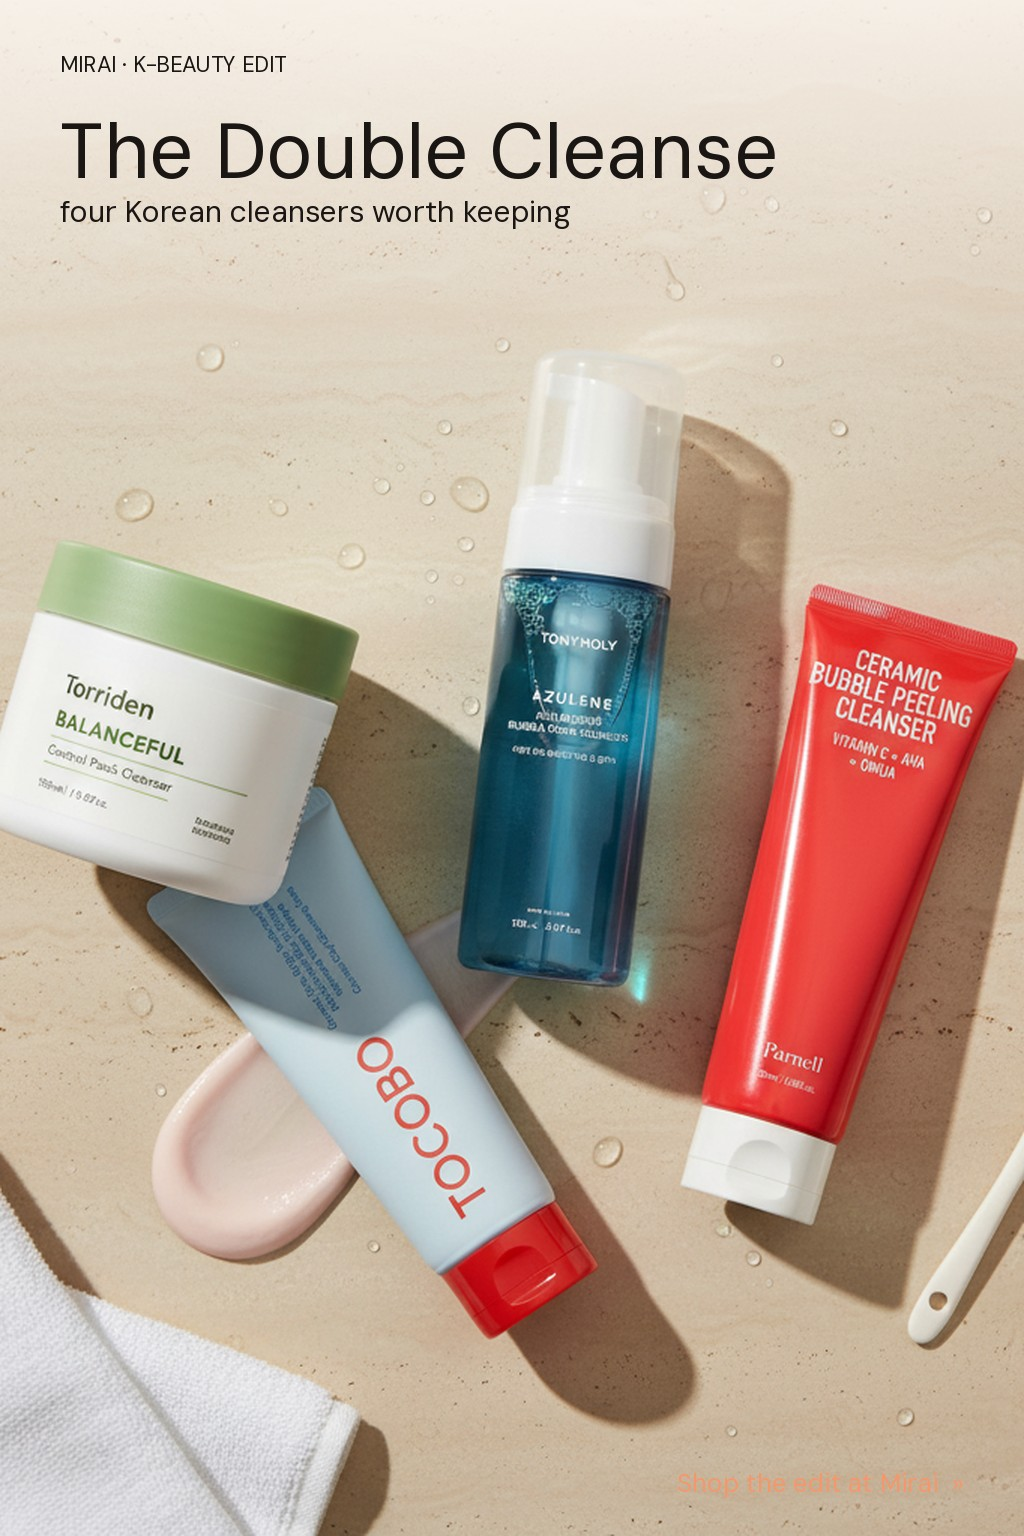
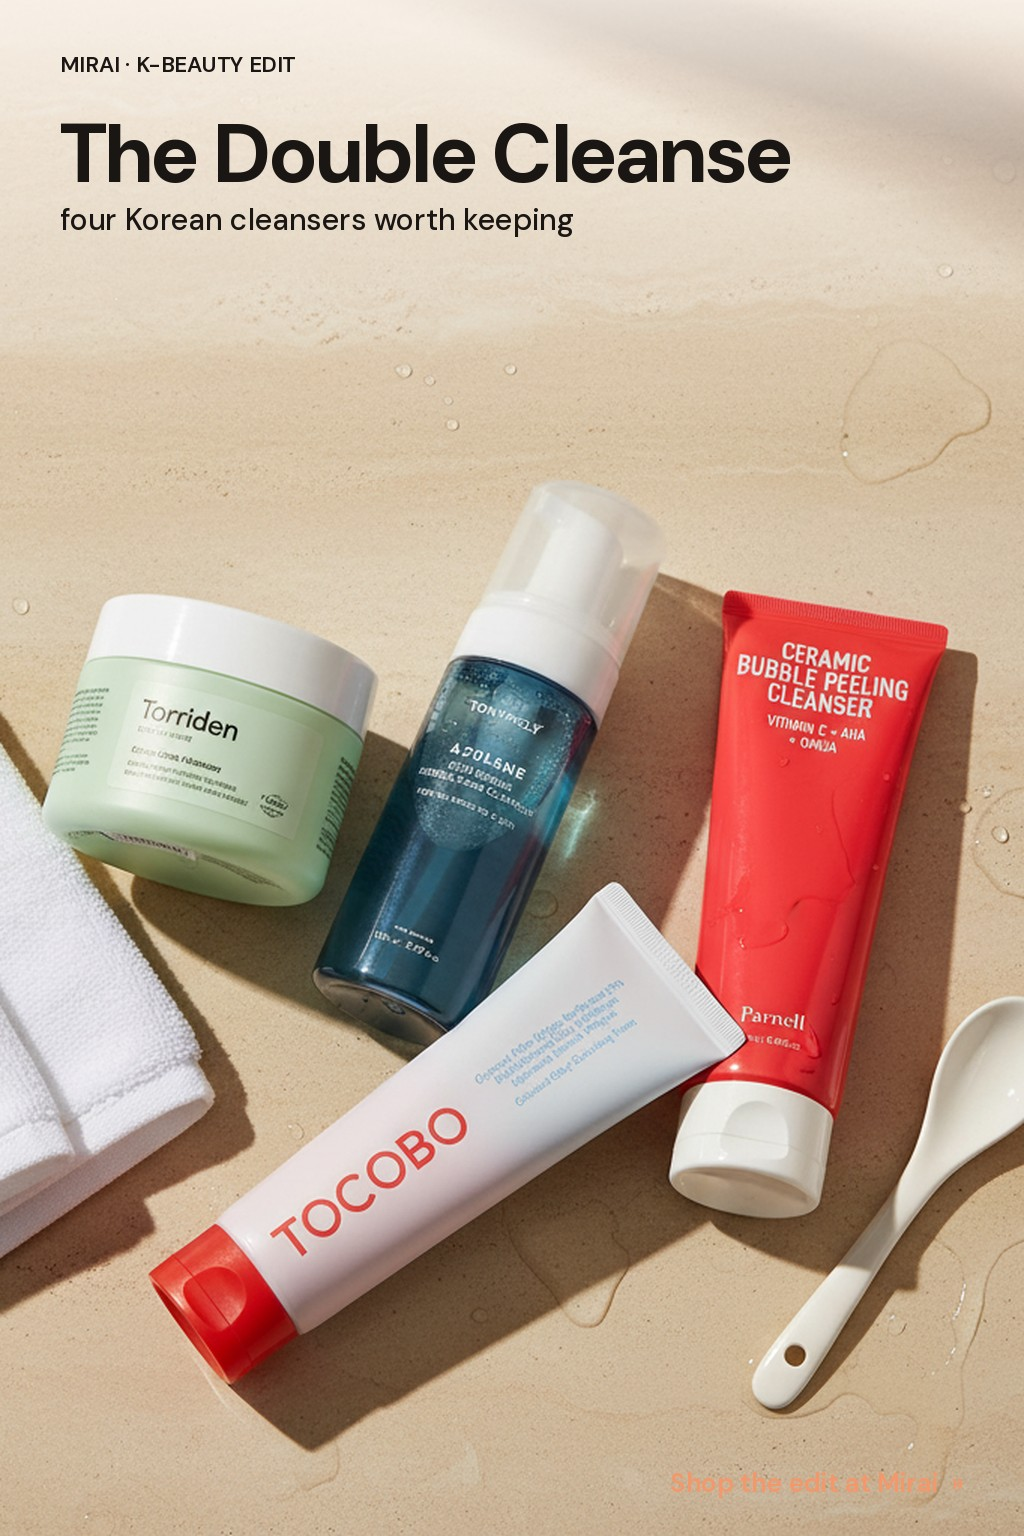
Pinterest v4b: typography matches mirai-skin.com weights
User feedback: 'looks good just font need to match the website more'.

Mirai-skin.com uses DM Sans across the site at weights 400/500/600/700.
v4 was rendering DM Sans at default weight 400 (Regular) which read as
thin/elegant — not matching mirai's bolder heading style.

v4b picks proper weights via Pillow's set_variation_by_axes() on the
DM Sans variable font:
  - kicker  (small uppercase nav-style):  weight 600 (semibold)
  - headline (display):                   weight 700 (bold)
  - subhead:                              weight 500 (medium)
  - CTA chip:                             weight 600 (semibold)

Also picks optical-size axis: 40 (display) for headlines >=36px,
14 (text) for smaller — matches mirai's actual font loading
(dmsans_n4 + n5 + n7).

Re-rendered + reposted 3 pins:
- Korean Sunscreens (sunscreens board)
- Korean Moisturizers (barrier repair board)
- The Double Cleanse (cleansers board)

diff --git a/scripts/social/build_mirai_pins_gemini.py b/scripts/social/build_mirai_pins_gemini.py
@@ -201,8 +201,30 @@ def crop_to_2_3(img: Image.Image) -> Image.Image:
     return img.resize((W, H), Image.LANCZOS)
 
 
+def _dm_sans(size: int, weight: int = 400, opsz: int | None = None) -> ImageFont.FreeTypeFont:
+    """Load DM Sans variable font at the requested weight + optical size.
+
+    mirai-skin.com loads DM Sans 400/500/600/700; we match those weights.
+    Optical size axis: 9 (text) → 40 (display); auto-pick by font size."""
+    f = ImageFont.truetype(FONT_DM_SANS, size)
+    if opsz is None:
+        opsz = 40 if size >= 36 else 14
+    try:
+        f.set_variation_by_axes([opsz, weight])
+    except Exception:
+        pass
+    return f
+
+
 def overlay_text(canvas: Image.Image, theme: Theme) -> Image.Image:
-    """Add headline + CTA overlay matching mirai-skin.com vibe."""
+    """Add headline + CTA overlay matching mirai-skin.com typography.
+
+    Mirai uses DM Sans across the site:
+      - Heading: weight 700 (Bold)
+      - Subhead/Body: weight 500 (Medium) or 400 (Regular)
+      - Buttons / CTAs: weight 600 (Semibold)
+      - Letter-spacing: ~0 for body, slightly tightened for big display
+    """
     canvas = canvas.convert("RGB")
     # Soft cream wash on top 28% for legibility
     overlay = Image.new("RGBA", canvas.size, (0, 0, 0, 0))
@@ -216,15 +238,15 @@ def overlay_text(canvas: Image.Image, theme: Theme) -> Image.Image:
     canvas = rgba.convert("RGB")
     draw = ImageDraw.Draw(canvas)
 
-    kicker = ImageFont.truetype(FONT_DM_SANS, 22)
-    head = ImageFont.truetype(FONT_DM_SANS, 78)
-    sub = ImageFont.truetype(FONT_DM_SANS, 30)
-    cta_font = ImageFont.truetype(FONT_DM_SANS, 26)
+    kicker = _dm_sans(22, weight=600)        # uppercase semibold (matches mirai nav)
+    head = _dm_sans(82, weight=700)          # big bold display headline
+    sub = _dm_sans(30, weight=500)           # medium subhead
+    cta_font = _dm_sans(26, weight=600)      # semibold CTA (matches mirai buttons)
     PAD = 60
 
     draw.text((PAD, 50), "MIRAI · K-BEAUTY EDIT", fill=MIRAI_INK, font=kicker, spacing=2)
     draw.text((PAD, 100), theme.headline, fill=MIRAI_INK, font=head)
-    draw.text((PAD, 192), theme.subhead, fill=MIRAI_INK, font=sub)
+    draw.text((PAD, 200), theme.subhead, fill=MIRAI_INK, font=sub)
 
     cta_text = f"{theme.cta}  »"
     bbox = draw.textbbox((0, 0), cta_text, font=cta_font)
